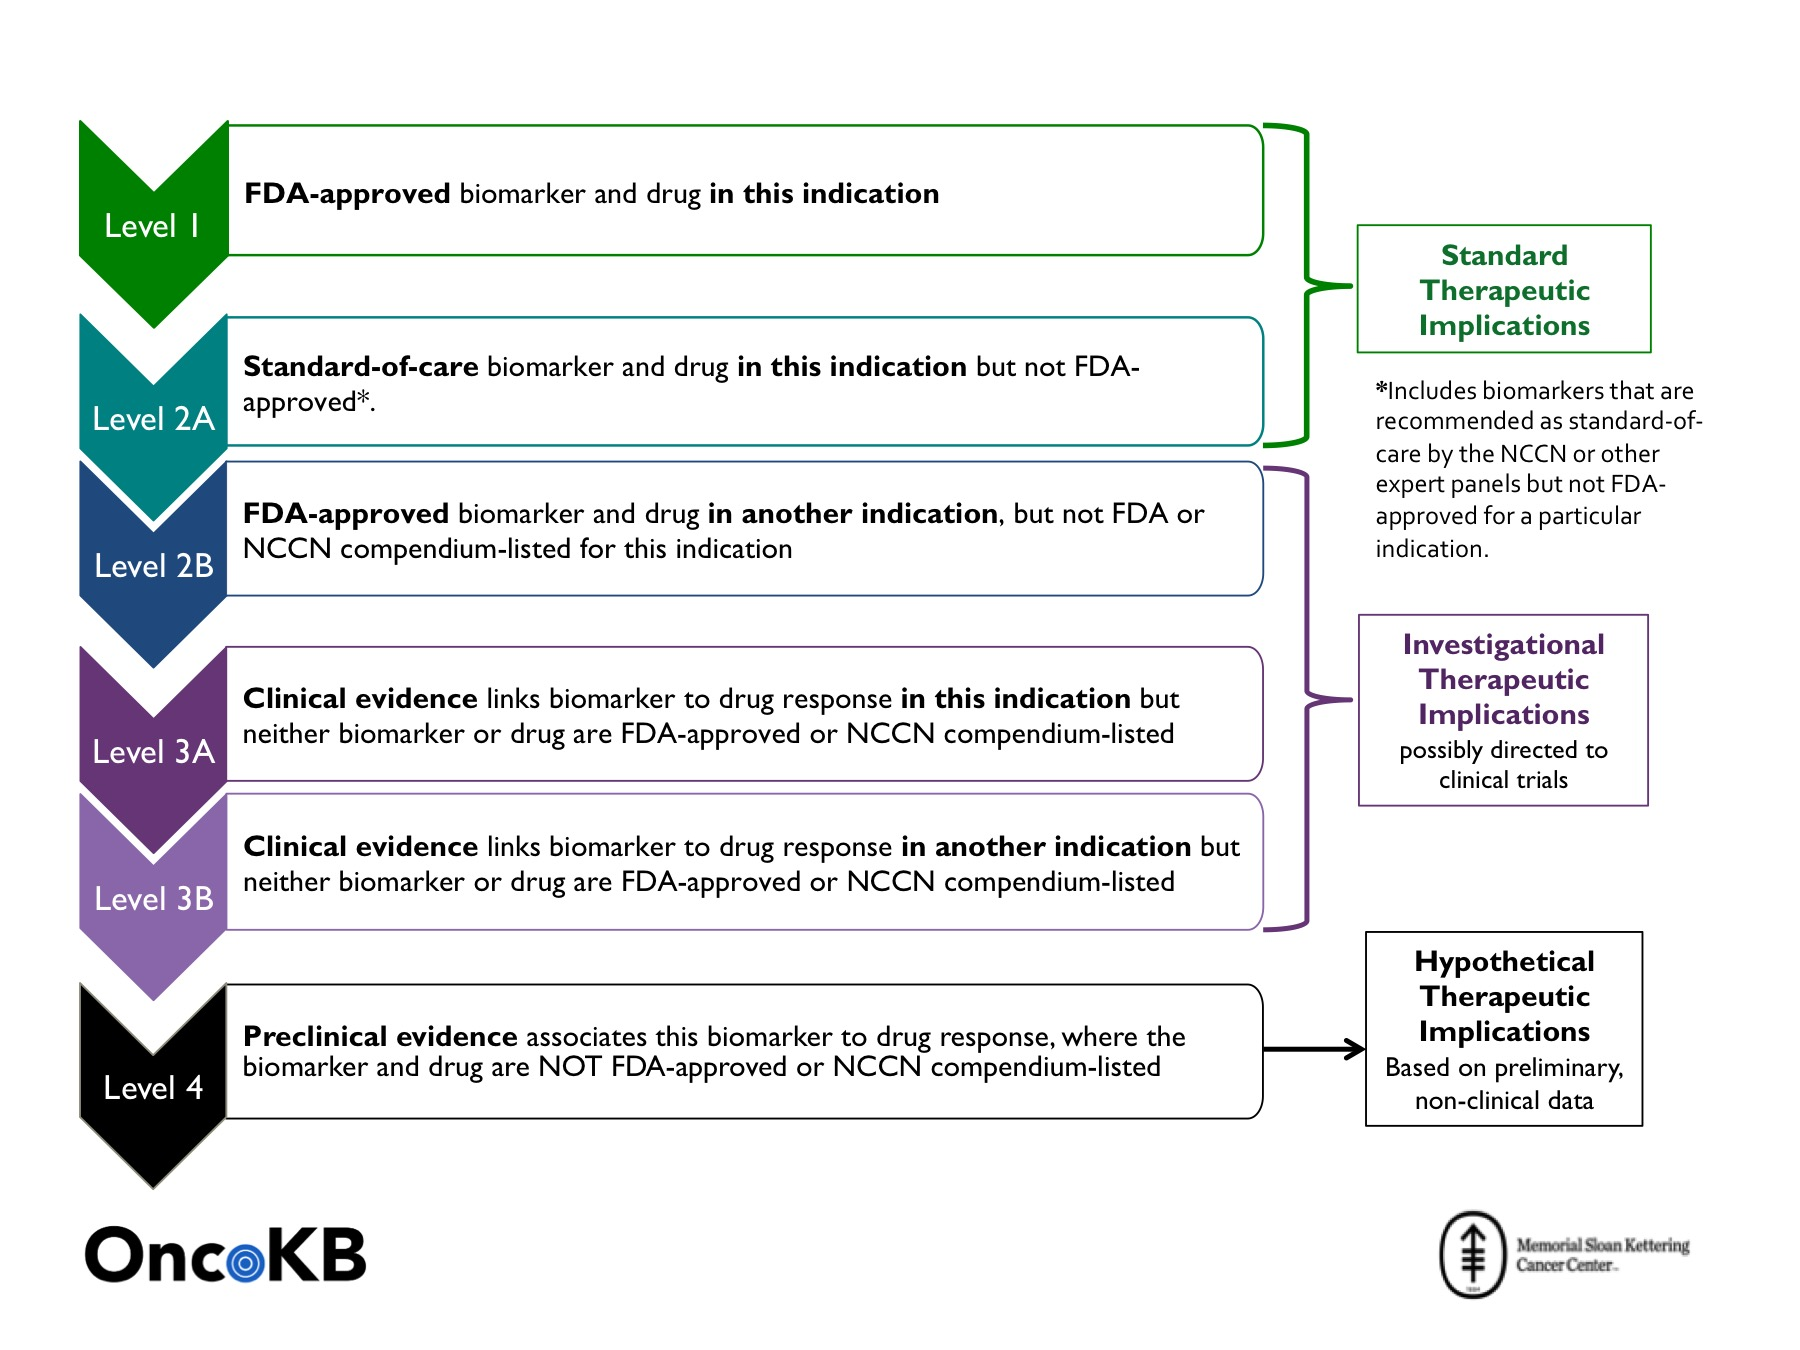
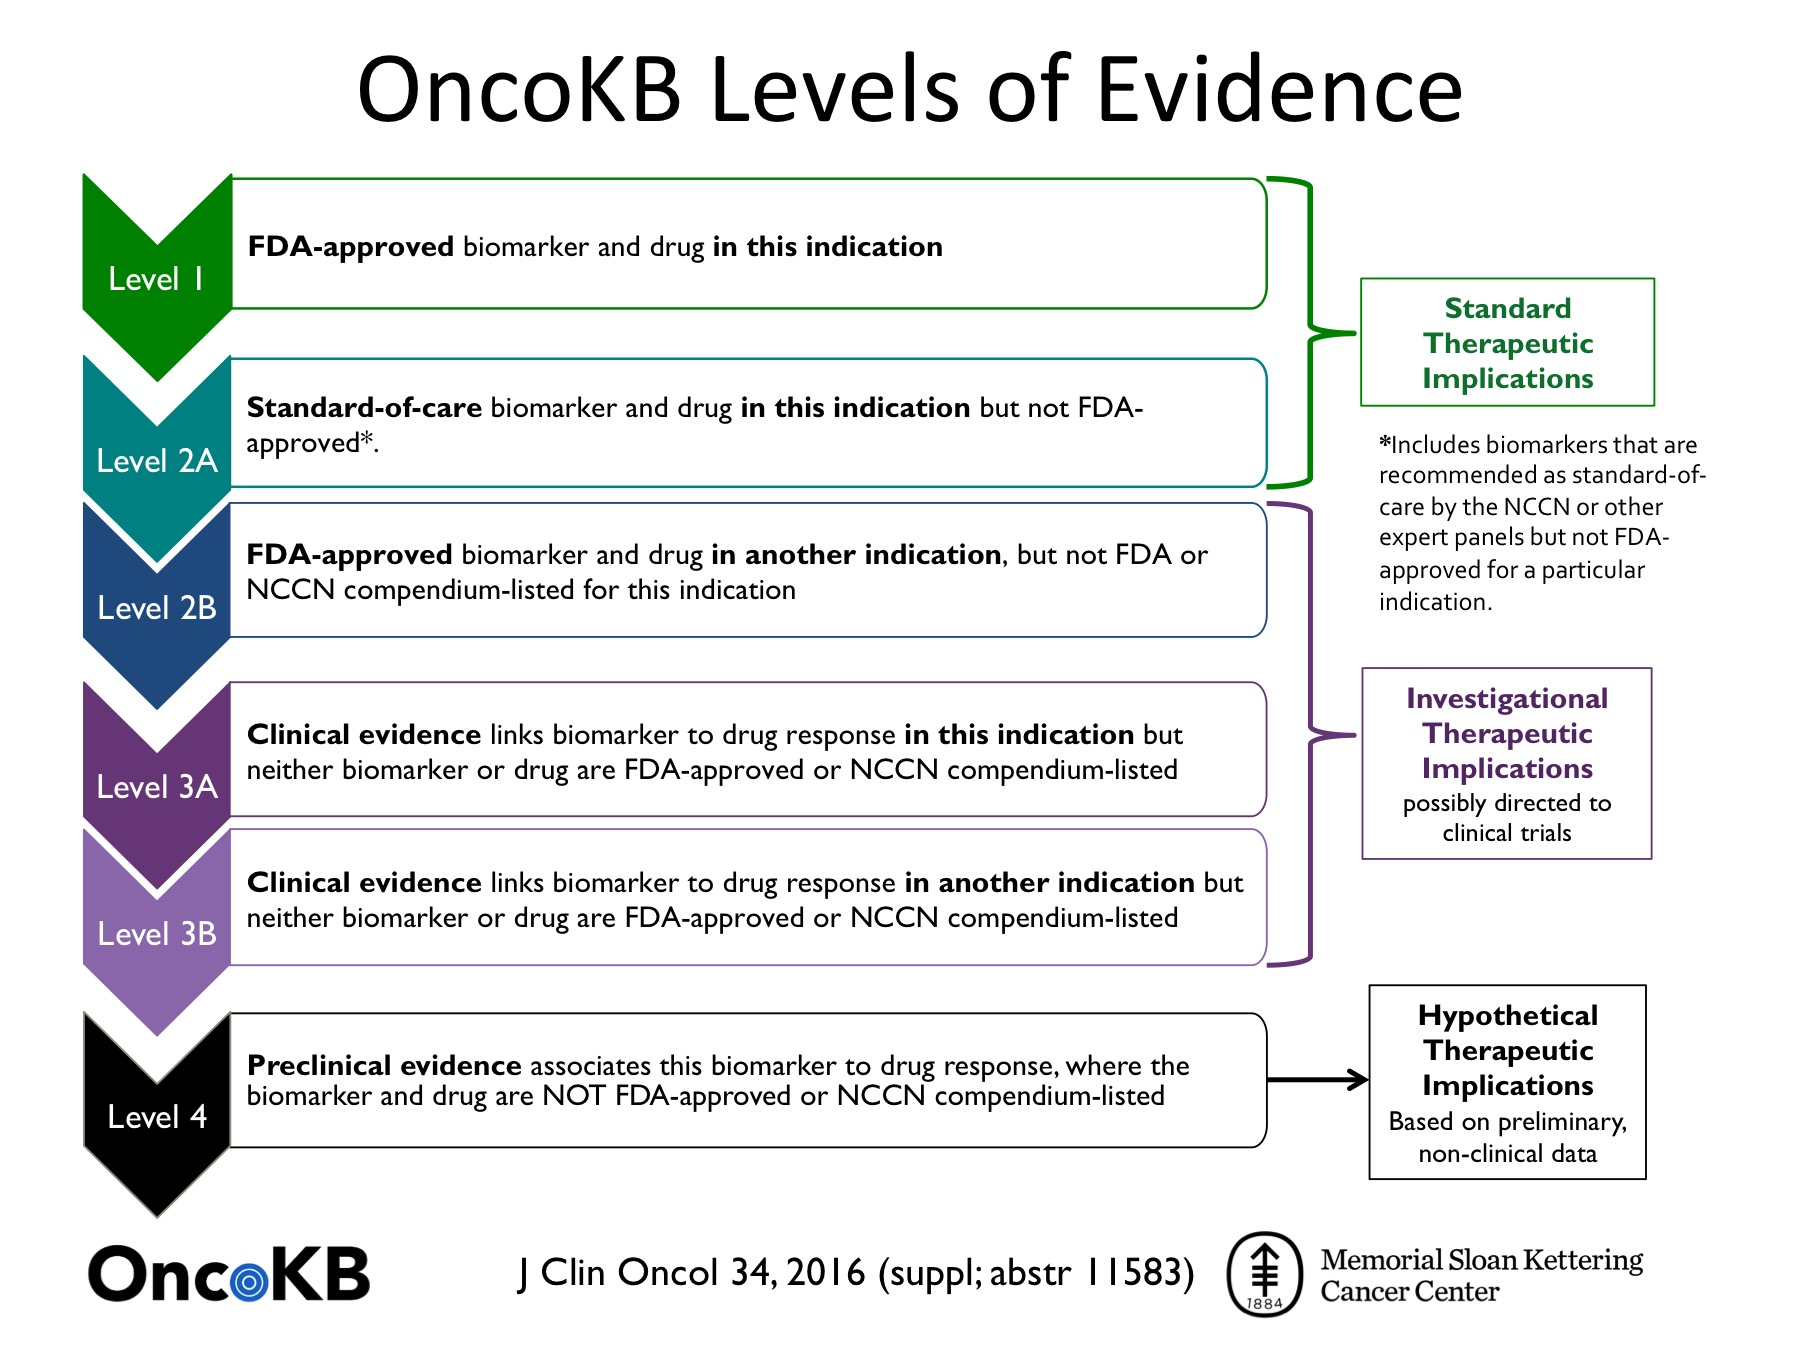
Interface update
Add ASCO abstract;
Change license to terms, update the terms content;
Minor interface updates

Changed region(s): [[0.0311, 0.0311, 0.9333, 0.9956], [0.28, 0.9333, 0.5911, 0.9644]]

diff --git a/app/views/license.html b/app/views/license.html
@@ -3,25 +3,25 @@
 
     <div class="row">
       <div class="col-lg-12">
-        <h2>Terms of Use</h2>
+        <h2>Usage Terms</h2>
       </div>
     </div>
     <div class="row">
       <div class="col-lg-12">
-        <p>Knowledge Systems group in the <a
-          href="https://www.mskcc.org/research-areas/programs-centers/molecular-oncology">Marie Josée and Henry R.
-          Kravis Center for Molecular Oncology</a> at Memorial Sloan Kettering Cancer Center (MSK) reserves the right to
-          update OncoKB.org at any time without notice. Although the MSK intends to make reasonable efforts to keep the
-          content current on OncoKB.org, MSK makes no warranties or representations, express or implied, with respect to
-          any of the content, including as to the present accuracy, completeness, timeliness, adequacy, or usefulness of
-          any of the content and MSK will not be liable for any loss or damages arising from your use of or reliance on
-          information contained in this site or other sites that may be linked to from our site. You may view the
-          content contained on OncoKB.org solely for your own personal, non-commercial purposes. You may not copy,
-          transfer, reproduce, modify, or create derivative works of any part of the OncoKB.org content for any reason
-          and you may not use the OncoKB.org content for any commercial purpose (e.g., you may not distribute, license
-          or sell the content, alone or in combination with other materials, to any other person or entity) without the
-          express written permission of MSK. For commercial licensing inquiries, please contact us at
-          <a href="mailto:team@oncokb.org" target="_top">team@oncokb.org</a>.
+        <p>
+          OncoKB is a precision oncology knowledge base maintained by Memorial Sloan Kettering Cancer Center (MSK). MSK
+          reserves the right to update http://oncokb.org at any time without notice. While MSK intends to make
+          reasonable efforts to keep the content current on http://oncokb.org, MSK makes no warranties or
+          representations, express or implied, with respect to any of the content, including as to the present accuracy,
+          completeness, timeliness, adequacy, or usefulness of any of the content and MSK will not be liable for any
+          loss or damages arising from your use of or reliance on information contained in this site or other sites that
+          may be linked to from our site. You may view the content contained on http://oncokb.org solely for your own
+          personal, non-commercial purposes. You may not copy, transfer, reproduce, modify, or create derivative works
+          of any part of the http://oncokb.org content for any reason and you may not use the http://oncokb.org content
+          for any commercial purpose (e.g., you may not distribute, license or sell the content, alone or in combination
+          with other materials, to any other person or entity) without the express written permission of MSK. For
+          commercial licensing inquiries, please contact us at
+          <a href="mailto:OTD@mskcc.org" target="_top">OTD@mskcc.org.</a>
         </p>
       </div>
     </div>

diff --git a/app/scripts/controllers/gene.js b/app/scripts/controllers/gene.js
@@ -178,7 +178,7 @@ angular.module('oncokbStaticApp')
                 var layout = {
                     // title: 'Tumor Types with ' + $scope.gene + ' Alterations',
                     yaxis: {
-                        title: 'Mutation Frequency',
+                        title: 'Mutation Frequency (%)',
                         titlefont: {
                             size: 14
                         },
@@ -186,12 +186,11 @@ angular.module('oncokbStaticApp')
                             size: 12
                         },
                         tickmode: 'array',
-                        ticksuffix: "%",
                         fixedrange: true
                     },
                     xaxis: {
                         tickfont: {
-                            size: Math.max(Math.min(180 / maxLengthStudy.length, 15, 180 / shortNames.length), 6)
+                            size: Math.max(Math.min(260 / maxLengthStudy.length, 15, 180 / shortNames.length), 6)
                         },
                         tickangle: 30,
                         fixedrange: true
@@ -199,7 +198,7 @@ angular.module('oncokbStaticApp')
                     height: 250,
                     width: $('.plot-container').width(),
                     margin: {
-                        t: 30,
+                        t: 10,
                     }
                 };
 
@@ -234,7 +233,7 @@ angular.module('oncokbStaticApp')
                 if (!updateFlag) {
                     //load the template when first load the page
                     $("#templateDiv").load("views/mutationMapperTemplates.html", function () {
-                        $scope.studyName = "accross Cancer Types";
+                        $scope.studyName = "across Cancer Types";
                         // init mutation mapper
                         mutationMapper = new MutationMapper(options);
                         mutationMapper.init();
@@ -303,7 +302,7 @@ angular.module('oncokbStaticApp')
                     resetFlag = false;
                     $scope.clinicalVariantsCount = uniqueClinicVariants.length;
                     $scope.annoatedVariantsCount = uniqueAnnotatedVariants.length;
-                    $scope.studyName = "accross Cancer Types";
+                    $scope.studyName = "across Cancer Types";
                 } else {
                     proteinChanges = _.uniq(proteinChanges);
                     var regexString = "";

diff --git a/app/views/team.html b/app/views/team.html
@@ -10,7 +10,7 @@
       </div>
     </div>
     <div class="row">
-      <div class="col-lg-3 col-md-3 col-sm-6">
+      <div class="col-lg-3 col-md-3 col-sm-6 item-1">
         <h5>Design &amp; Development</h5>
         <ul>
           <li>Debyani Chakravarty, PhD</li>
@@ -26,7 +26,7 @@
           <li>Nikolaus Schultz, PhD</li>
         </ul>
       </div>
-      <div class="col-lg-3 col-md-3 col-sm-6">
+      <div class="col-lg-3 col-md-3 col-sm-6 item-2">
         <h5>Clinical Genomics Annotation Committee</h5>
         <ul>
           <li>Shrujal Baxi, MD, MPH</li>
@@ -54,7 +54,7 @@
           <li>Rona Yaeger, MD</li>
         </ul>
       </div>
-      <div class="col-lg-3 col-md-3 col-sm-6">
+      <div class="col-lg-3 col-md-3 col-sm-6 item-3">
         <h5>Core Curators</h5>
         <ul>
           <li>Moriah Nissan, PhD</li>
@@ -70,7 +70,7 @@
           <li>Eneda Toska, PhD</li>
         </ul>
       </div>
-      <div class="col-lg-3 col-md-3 col-sm-6">
+      <div class="col-lg-3 col-md-3 col-sm-6 item-4">
         <h5>Quest Diagnostics</h5>
         <ul>
           <li>Feras M Abu Hantash, PhD</li>

diff --git a/app/scripts/directives/qtip.js b/app/scripts/directives/qtip.js
@@ -13,8 +13,8 @@ angular.module('oncokbStaticApp')
       link: function(scope, element, attrs) {
         var src = '';
         var hideEvent = 'mouseleave';
-        var my = attrs.hasOwnProperty('my') ? attrs.my : 'center right';
-        var at = attrs.hasOwnProperty('at') ? attrs.at : 'left center';
+        var my = attrs.hasOwnProperty('my') ? attrs.my : 'bottom right';
+        var at = attrs.hasOwnProperty('at') ? attrs.at : 'top left';
         var type = attrs.hasOwnProperty('qtipType') ? attrs.qtipType : '';
         var content = attrs.hasOwnProperty('qtipContent') ? attrs.qtipContent : '';
 

diff --git a/app/views/main.html b/app/views/main.html
@@ -41,7 +41,7 @@
             </div>
           </div>
           <div class="col-lg-3 col-md-3 col-sm-6 col-md-6">
-            <div class="item"><span class="number">60</span><br/><span class="category">Tumor Types</span>
+            <div class="item"><span class="number">{{content.main.tumorType}}</span><br/><span class="category">Tumor Types</span>
             </div>
           </div>
           <div class="col-lg-3 col-md-3 col-sm-6 col-md-6">

diff --git a/app/views/gene.html b/app/views/gene.html
@@ -30,7 +30,7 @@
                qtip
                my="bottom center"
                at="top center"
-               qtip-content="Currently this graph doesn't include copy number changes and fusions"></i>
+               qtip-content="Currently, the mutation frequency does not take into account copy number changes or chromosomal translocations"></i>
           </div>
           <div id="histogramDiv"></div>
         </div>

diff --git a/app/styles/_team.scss b/app/styles/_team.scss
@@ -7,4 +7,23 @@
     font-size: 12px;
     color: grey;
   }
+  .col-lg-3 {
+    padding-left: 5px;
+    padding-right: 5px;
+  }
+  @media (min-width: $range-min-lg-width) {
+    .col-lg-3.item-1 {
+      width: 22%;
+      padding-left: 15px;
+    }
+    .col-lg-3.item-2 {
+      width: 33%;
+    }
+    .col-lg-3.item-3 {
+      width: 24%;
+    }
+    .col-lg-3.item-4 {
+      width: 21%;
+    }
+  }
 }

diff --git a/app/index.html b/app/index.html
@@ -124,7 +124,7 @@
     <div class="row footer-row-2">
       <div class="col-md-4 col-lg-4 col-sm-12 col-xs-12">
         <div class="">
-          <a href="#/license" class="">License</a>
+          <a href="#/terms" class="">Usage Terms</a>
           <a href="mailto:team@oncokb.org" target="_top">Contact us</a>
           <a href="https://twitter.com/OncoKB" target="_blank">Twitter</a>
         </div>

diff --git a/app/scripts/app.js b/app/scripts/app.js
@@ -72,7 +72,7 @@ angular
         controller: 'actionableGenesCtrl',
         controllerAs: 'actionableGenes'
       })
-      .when('/license', {
+      .when('/terms', {
         templateUrl: 'views/license.html',
         controller: 'LicenseCtrl',
         controllerAs: 'license'
